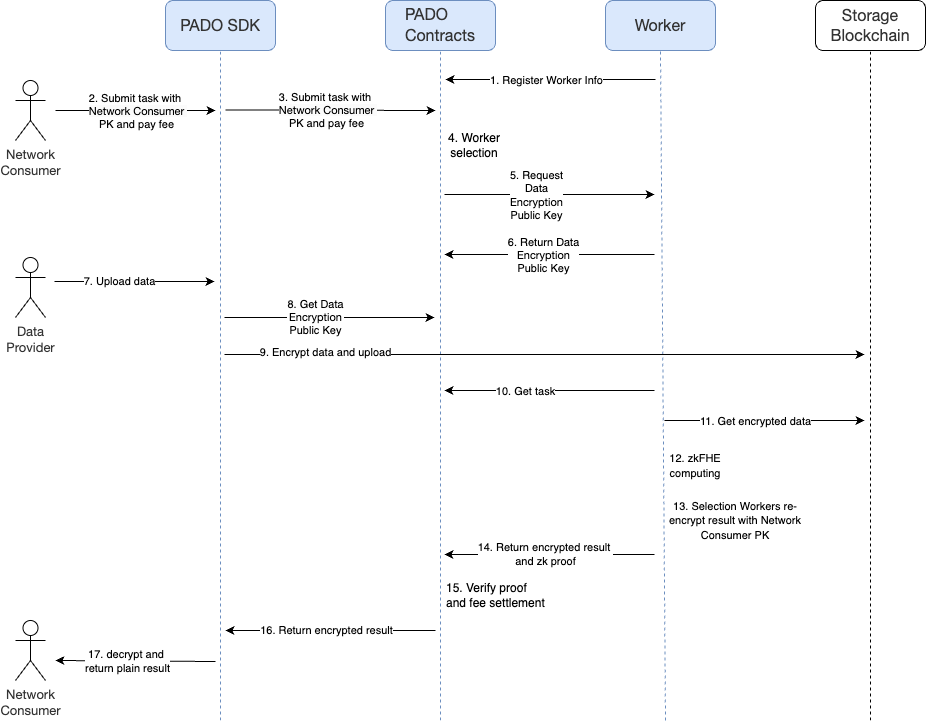
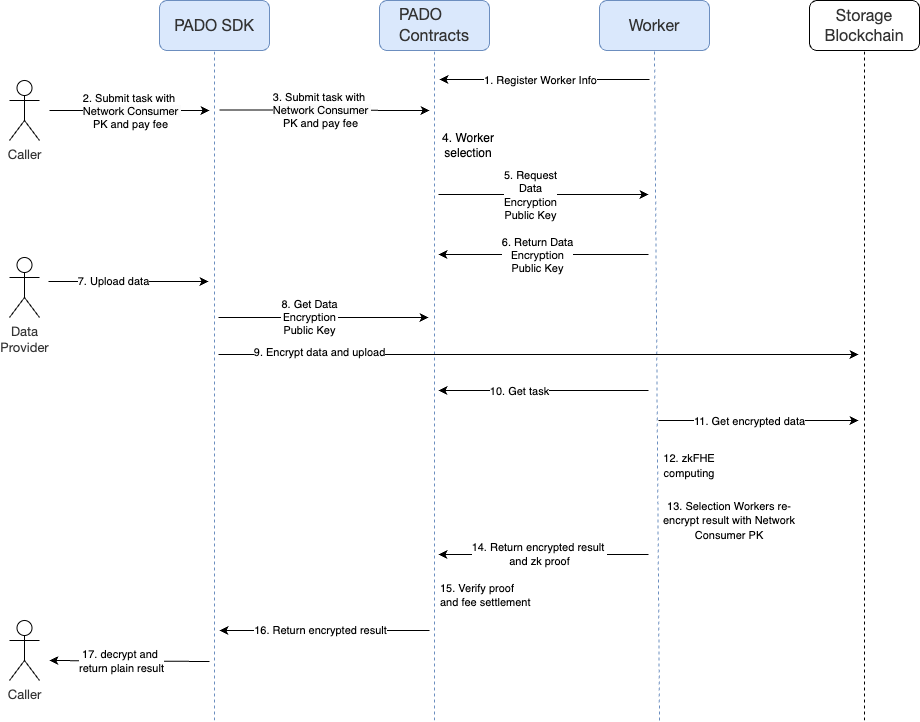
update consumer to caller in pictures

diff --git a/zkFHE-Network.md b/zkFHE-Network.md
@@ -131,7 +131,7 @@ Threshold FHE use the shared public generated by multiple Workers to encrypt dat
 
 The threshold FHE core workflow is shown in the figure below:
 
-![zkFHE-architecture-process](./images/zkFHE-architecture-process2.png)
+![zkFHE-architecture-process](./images/zkFHE-architecture-process.png)
 
 ##### Register Worker
 
